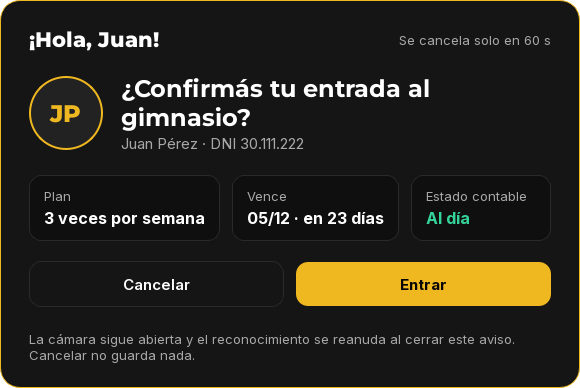
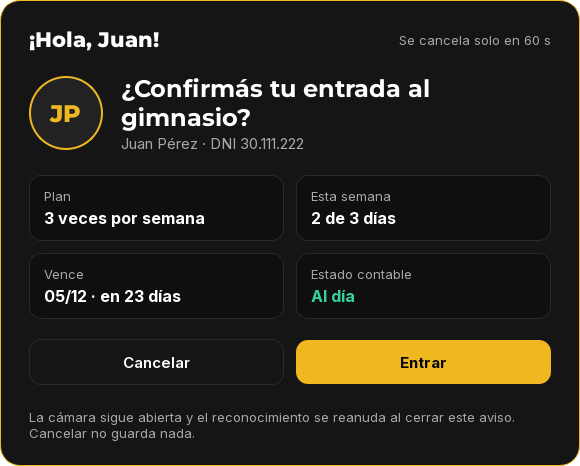
Cámara: vuelve la tarjeta "Esta semana" al modal del socio
Requisito del gimnasio: "2 de 3 días" si el plan tiene límite semanal, o
"2 días" si no. El modal del socio muestra Plan, Esta semana, Vence y
Estado contable. Se actualizan las capturas del modal y de Cobros.

diff --git a/tests/test_acceso_service.py b/tests/test_acceso_service.py
@@ -118,8 +118,8 @@ def test_socio_habilitado_propone_ingreso_sin_escribir():
     assert [(o.clave, o.boton) for o in ev.opciones] == [(ENTRENAR, "Entrar")]
     assert ev.mensaje == "¿Confirmás tu entrada al gimnasio?" and ev.sugerida == ENTRENAR
     assert (ev.nombre, ev.dni, ev.rol_texto) == ("Juan Pérez", "30.111.222", "Socio")
-    assert ev.tarjetas == (("Plan", "3 veces por semana", None), ("Vence", "05/12 · en 23 días", None),
-                           ("Estado contable", "Al día", "verde"))
+    assert ev.tarjetas == (("Plan", "3 veces por semana", None), ("Esta semana", "2 de 3 días", None),
+                           ("Vence", "05/12 · en 23 días", None), ("Estado contable", "Al día", "verde"))
     assert (m.rechazos, m.permitidos) == ([], [])
 
 
@@ -161,7 +161,7 @@ def test_pago_parcial_permite_y_advierte():
     m = Mundo(estado_socio=estado(saldo=Decimal("8000"), estado_contable="debe"))
     ev = servicio(m).evaluar(1)
     assert ev.estado == PROPUESTA and ev.advertencias == ()      # la deuda ya está en la tarjeta
-    assert ev.tarjetas[2] == ("Estado contable", "Debe $8.000,00", "rojo")
+    assert ev.tarjetas[3] == ("Estado contable", "Debe $8.000,00", "rojo")
 
 
 TURNO_TARDE = (1, time(14, 0), time(22, 0), "jornada")
@@ -366,5 +366,13 @@ def test_formatos():
     assert dni_texto("30111222") == "30.111.222" and dni_texto("1234567") == "1.234.567"
     assert tarjetas_socio(estado(max_dias_semanales=None, dias_entrenados_semana=1,
                                  dias_para_vencer=1, estado_contable="por_vencer"))[1:] == (
-        ("Vence", "05/12 · mañana", None),
+        ("Esta semana", "1 día", None), ("Vence", "05/12 · mañana", None),
         ("Estado contable", "Por vencer", "ambar"))
+
+
+def test_esta_semana_con_y_sin_limite_semanal():
+    from services.acceso_service import texto_semana
+    assert texto_semana(2, 3) == "2 de 3 días"
+    assert texto_semana(2, None) == "2 días"
+    assert texto_semana(1, None) == "1 día"
+    assert texto_semana(0, None) == "0 días"

diff --git a/tests/test_control_acceso_ui.py b/tests/test_control_acceso_ui.py
@@ -17,8 +17,8 @@ PROPUESTA_ANA = {
         "nombre": "Juan Pérez", "dni": "30.111.222", "rol_texto": "Socio", "modo": "socio",
         "opciones": [{"clave": "entrenar", "boton": "Entrar", "habilitada": True, "motivo": None}],
         "sugerida": "entrenar",
-        "tarjetas": [["Plan", "3 veces por semana", None], ["Vence", "05/12 · en 23 días", None],
-                     ["Estado contable", "Al día", "verde"]],
+        "tarjetas": [["Plan", "3 veces por semana", None], ["Esta semana", "2 de 3 días", None],
+                     ["Vence", "05/12 · en 23 días", None], ["Estado contable", "Al día", "verde"]],
         "advertencias": [], "lineas": [],
     },
 }
@@ -313,6 +313,8 @@ def test_modal_del_socio(app):
     m = _modal(PROPUESTA_ANA["evaluacion"])
     assert (m.titulo.text(), m.encabezado.text()) == ("¡Hola, Juan!", "¿Confirmás tu entrada al gimnasio?")
     assert m.cuenta.text() == "Se cancela solo en 60 s"
+    texto = _textos_visibles(m)
+    assert "Esta semana" in texto and "2 de 3 días" in texto
     assert [b.text() for b in m.botones_opcion.values()] == ["Entrar"]
     assert m.botones_opcion["entrenar"].property("rol") == "primario"
     m.botones_opcion["entrenar"].click()

diff --git a/src/services/acceso_service.py b/src/services/acceso_service.py
@@ -103,8 +103,15 @@ class Confirmacion:
     momento: object = None
 
 
+def texto_semana(dias, maximo):
+    """'2 de 3 días' si el plan tiene límite semanal; si no, '2 días' (o '1 día')."""
+    if maximo:
+        return f"{dias} de {maximo} días"
+    return "1 día" if dias == 1 else f"{dias} días"
+
+
 def tarjetas_socio(estado):
-    """Plan / Vence / Estado contable."""
+    """Plan / Esta semana / Vence / Estado contable."""
     restantes = estado["dias_para_vencer"]
     cuando = "mañana" if restantes == 1 else f"en {restantes} días"
     vence = f"{estado['fecha_vencimiento'].strftime('%d/%m')} · {cuando}"
@@ -115,7 +122,8 @@ def tarjetas_socio(estado):
         contable = ("Por vencer", "ambar")
     else:
         contable = ("Al día", "verde")
-    return (("Plan", estado["plan"], None), ("Vence", vence, None),
+    semana = texto_semana(estado["dias_entrenados_semana"], estado["max_dias_semanales"])
+    return (("Plan", estado["plan"], None), ("Esta semana", semana, None), ("Vence", vence, None),
             ("Estado contable", contable[0], contable[1]))
 
 

diff --git a/src/ui/modal_confirmacion.py b/src/ui/modal_confirmacion.py
@@ -146,7 +146,7 @@ class ModalConfirmacion(QDialog):
         persona.addLayout(textos, 1)
         columna.addLayout(persona)
 
-        # Datos: tarjetas (socio: plan, vence, estado contable; empleado: rol,
+        # Datos: tarjetas (socio: plan, esta semana, vence, estado contable; empleado: rol,
         # turno, hora y estado) o una línea por condición (socio y empleado).
         tarjetas = evaluacion.get("tarjetas", [])
         if tarjetas:
